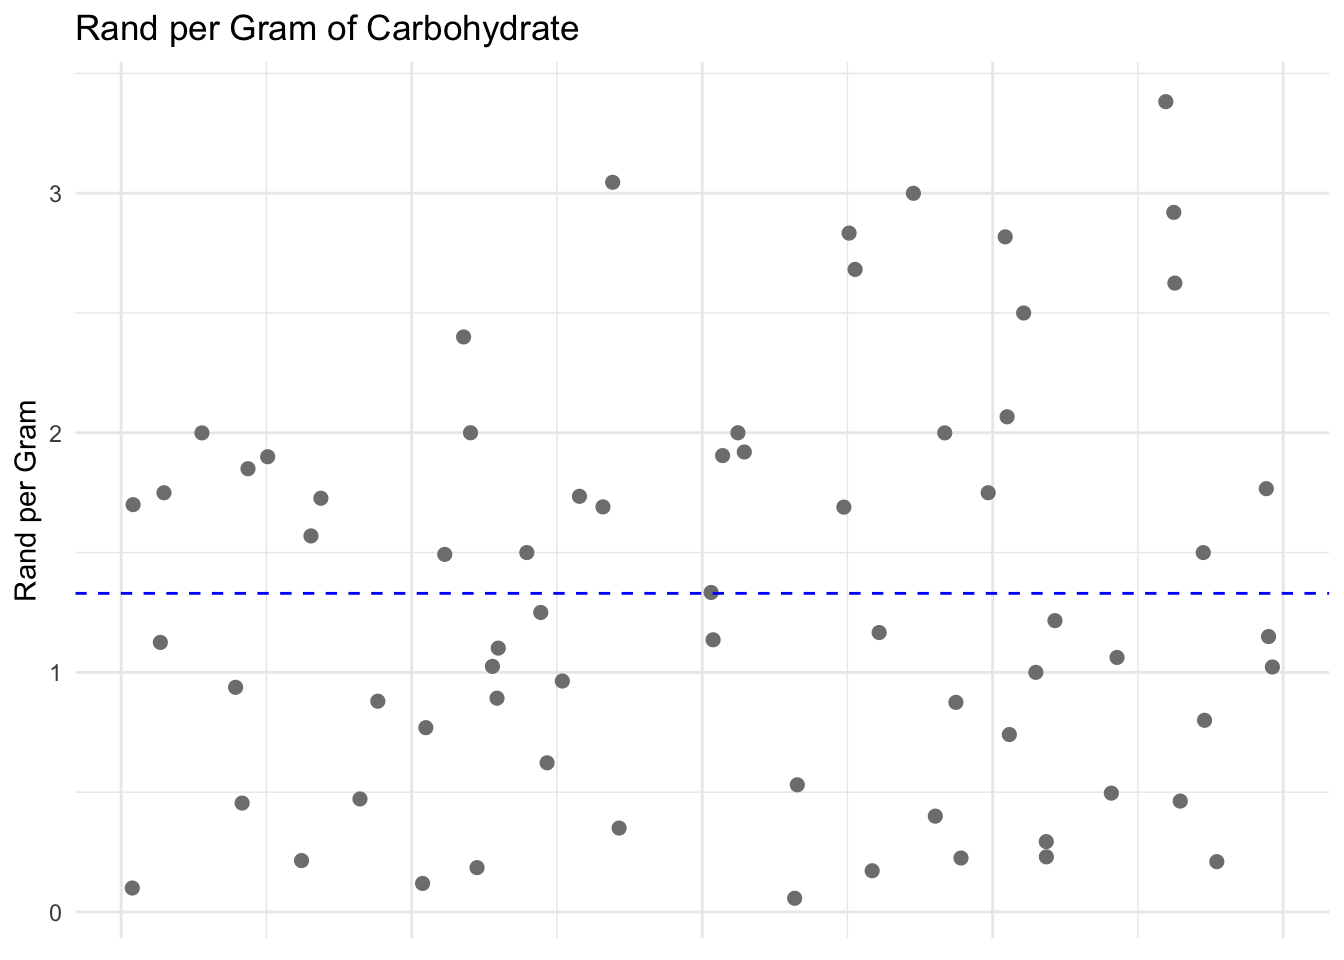
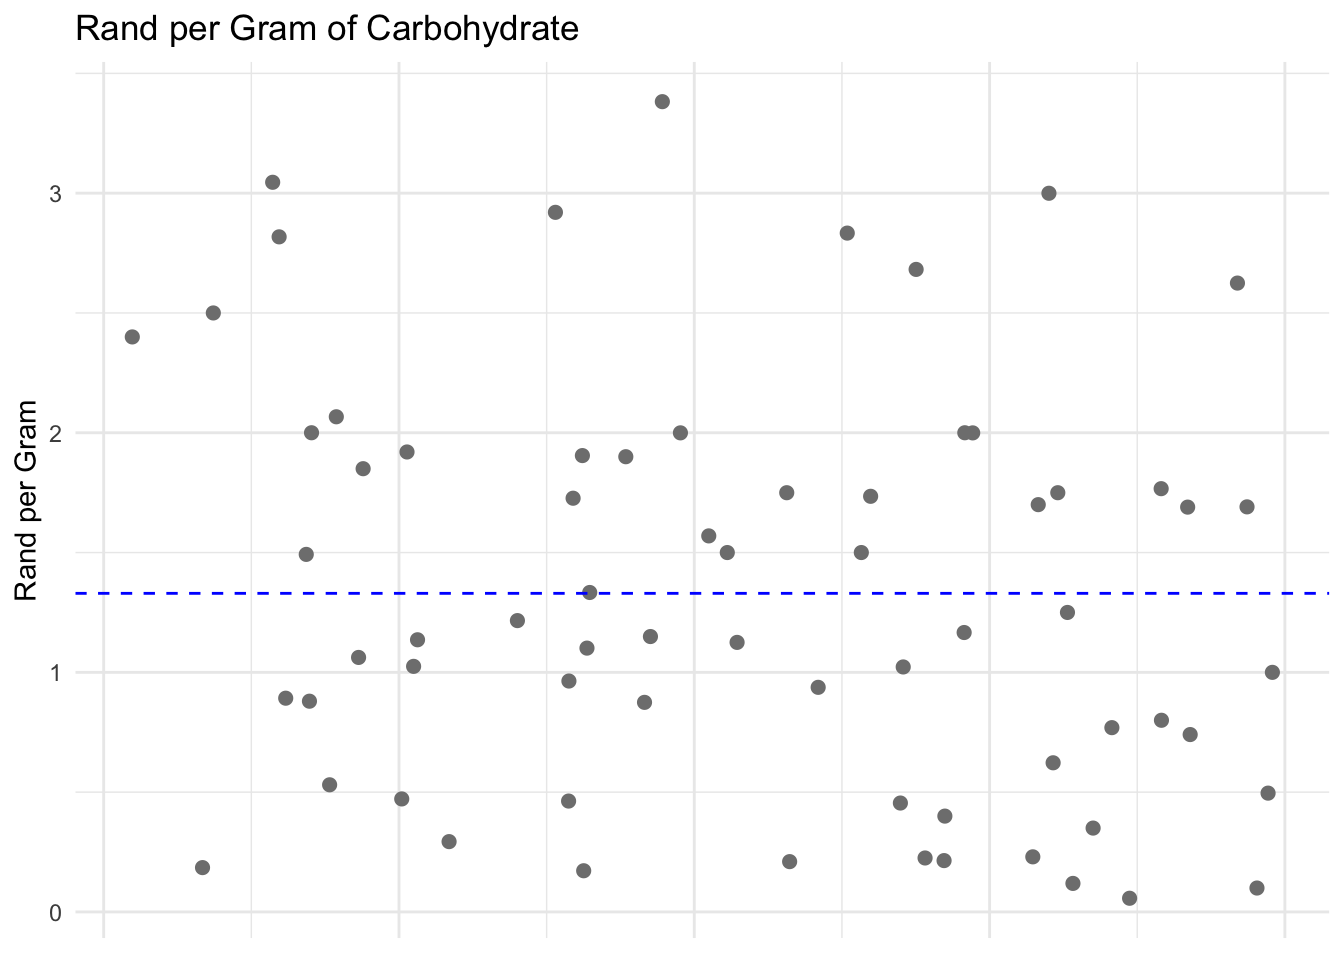
Update site after Quarto render

diff --git a/_site/blog/index.html b/_site/blog/index.html
@@ -258,7 +258,7 @@ window.Quarto = {
 
 <div class="quarto-listing quarto-listing-container-default" id="listing-listing">
 <div class="list quarto-listing-default">
-<div class="quarto-post image-right" data-index="0" data-categories="QmxvZyUyQ1Nwb3J0JTJDQ3ljbGluZyUyQ251dHJpdGlvbg==" data-listing-date-sort="1754085600000" data-listing-file-modified-sort="1754290168336" data-listing-date-modified-sort="NaN" data-listing-reading-time-sort="41" data-listing-word-count-sort="8037">
+<div class="quarto-post image-right" data-index="0" data-categories="QmxvZyUyQ1Nwb3J0JTJDQ3ljbGluZyUyQ251dHJpdGlvbg==" data-listing-date-sort="1754085600000" data-listing-file-modified-sort="1754912778154" data-listing-date-modified-sort="NaN" data-listing-reading-time-sort="41" data-listing-word-count-sort="8037">
 <div class="thumbnail"><a href="../blog/rands_per_gram.html" class="no-external">
 
 <div class="listing-item-img-placeholder card-img-top" >&nbsp;</div>